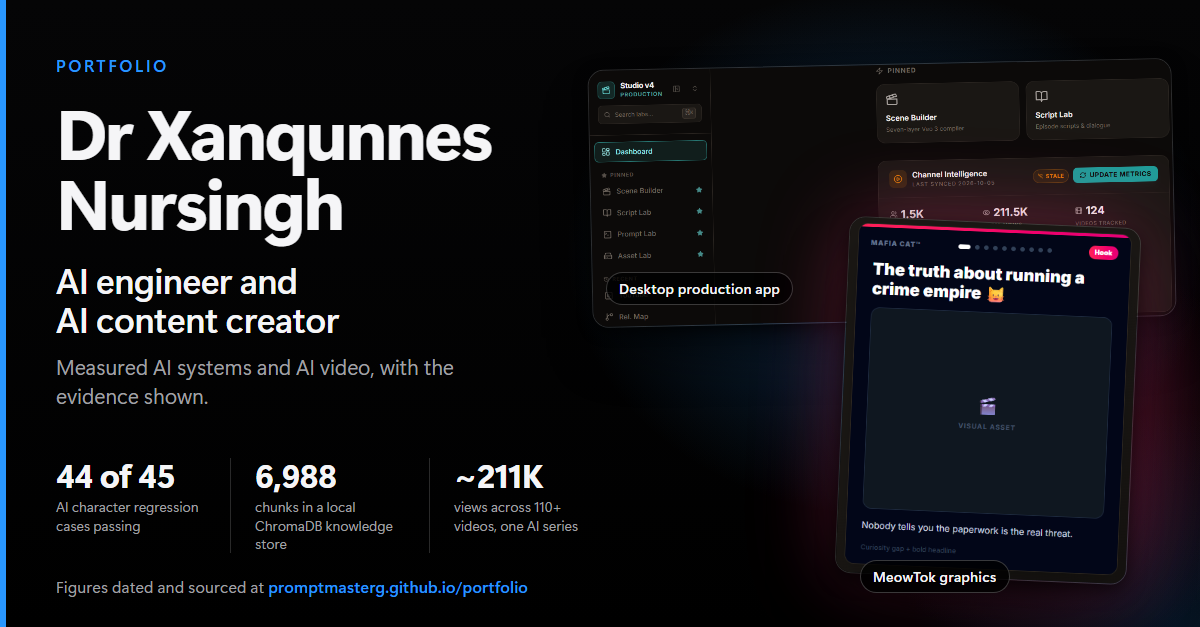
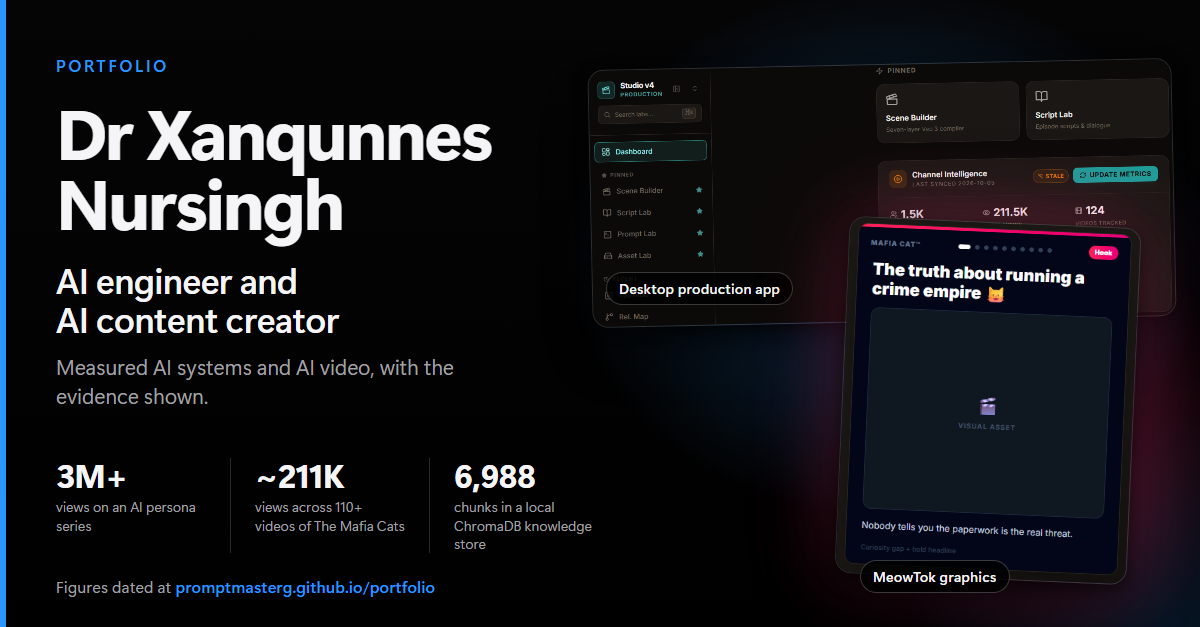
Show the 3M persona views plainly, add them to the opening strip and the share image

diff --git a/index.md b/index.md
@@ -3,12 +3,12 @@ layout: home
 title: Home
 description: Dr Xanqunnes Nursingh is an AI engineer and AI content creator. Measured AI systems and AI video, with the evidence dated and shown.
 jsonld: true
-facts: [samara-suite-pass, mcs-collections, series-reach, studio-tools, studio-tests, mcs-library, mcs-characters, mcs-locations, mcs-scripts, mcs-labs, signal-rubric, signal-sections, pmg-sheets]
+facts: [samara-suite-pass, mcs-collections, persona-views, series-reach, studio-tools, studio-tests, mcs-library, mcs-characters, mcs-locations, mcs-scripts, mcs-labs, signal-rubric, signal-sections, pmg-sheets]
 proof:
-  - {fact: samara-suite-pass, verb: Run on, href: /work/samara/#verification, fit: engineer, re: 1, rc: 3}
-  - {fact: mcs-collections, verb: Counted on, href: /work/ai-studio-tool/#example, fit: engineer creator, re: 2, rc: 2}
-  - {fact: studio-tools, verb: Counted on, href: /work/ai-studio-tool/#agents, fit: engineer, re: 3, rc: 4}
-  - {fact: series-reach, verb: Read on, href: /content/#numbers, fit: creator, re: 4, rc: 1}
+  - {fact: samara-suite-pass, verb: Run on, href: /work/samara/#verification, fit: engineer, re: 1, rc: 4}
+  - {fact: mcs-collections, verb: Counted on, href: /work/ai-studio-tool/#example, fit: engineer creator, re: 2, rc: 3}
+  - {fact: persona-views, verb: Stated on, href: /content/#numbers, fit: creator, re: 3, rc: 1}
+  - {fact: series-reach, verb: Read on, href: /content/#numbers, fit: creator, re: 4, rc: 2}
 ---
 <section class="band-text" aria-labelledby="nonai-h">
 <div markdown="1">

diff --git a/profile-readme/README.md b/profile-readme/README.md
@@ -12,6 +12,7 @@ Open to remote contract and part-time work. Johannesburg, South Africa (SAST, UT
 - 6,988 chunks in a local knowledge store of 12 collections, built on ChromaDB with an embedding model that runs offline, counted on 1 Nov 2026. See [the AI Studio Tool](https://promptmasterg.github.io/portfolio/work/ai-studio-tool/#example).
 - 44 MCP tools behind an orchestrator and ten specialist agents, counted on 1 Nov 2026. See [the agent team](https://promptmasterg.github.io/portfolio/work/ai-studio-tool/#agents).
 - +1,466% LinkedIn followers at a biosciences company in 2024, creator-reported with no base figures, before I moved into AI video. See [Content before AI](https://promptmasterg.github.io/portfolio/content/#earlier).
+- 3M+ views on a separate AI persona series, kept visually consistent with a LoRA I trained locally. See [the Content page](https://promptmasterg.github.io/portfolio/content/#numbers).
 - 110+ videos, ~211K views in one series, read from the YouTube API on 5 Oct 2026. See [the numbers](https://promptmasterg.github.io/portfolio/content/#numbers).
 
 ## Work

diff --git a/content.md b/content.md
@@ -24,7 +24,7 @@ I make AI video with Veo 3, edit in CapCut Pro, use ElevenLabs for voice, and ru
 
 The pipeline is layered shot assembly built from character and location records. The desktop app in [AI Studio Tool]({{ '/work/ai-studio-tool/' | relative_url }}) is the software that does it.
 
-A separate AI persona series, kept visually consistent with a LoRA I trained locally, {% include fact.html id="persona-views" %} (creator-reported).
+A separate AI persona series, kept visually consistent with a LoRA I trained locally, {% include fact.html id="persona-views" %}.
 
 ## Featured videos
 
